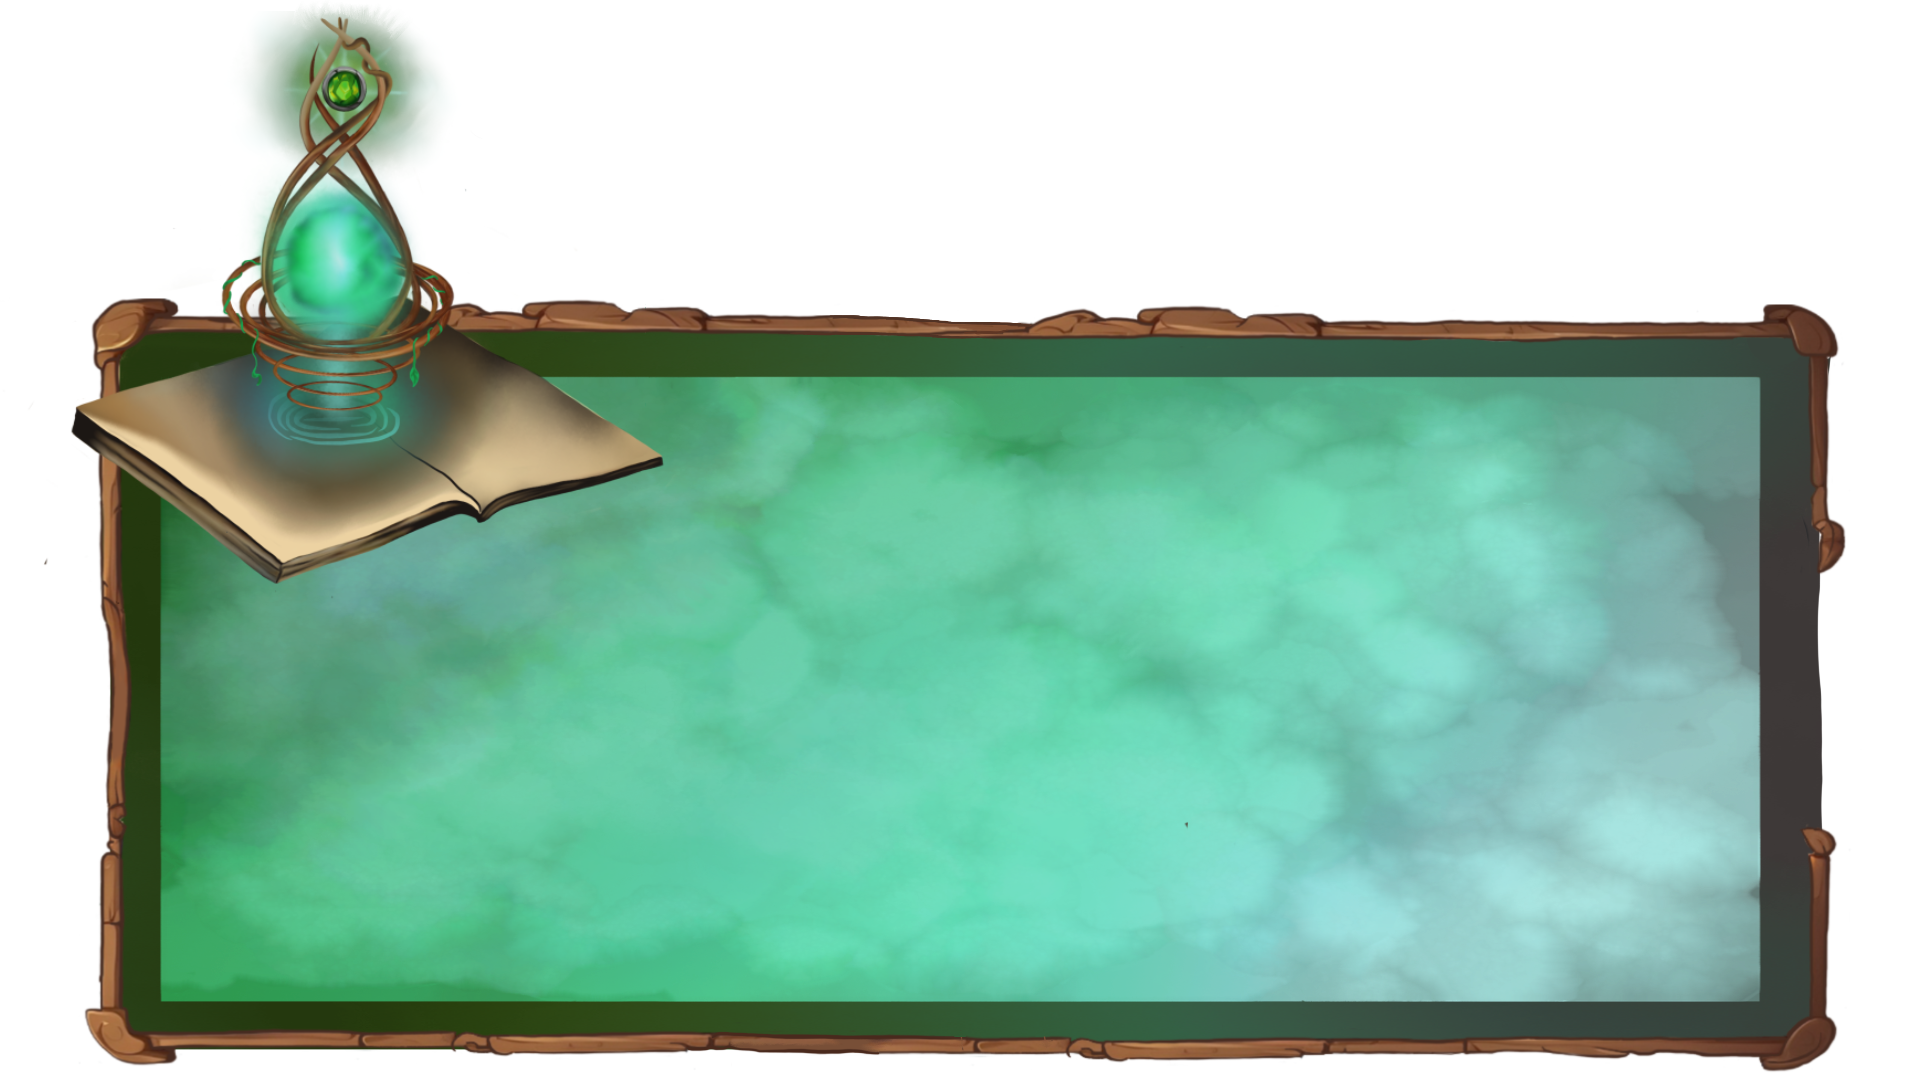
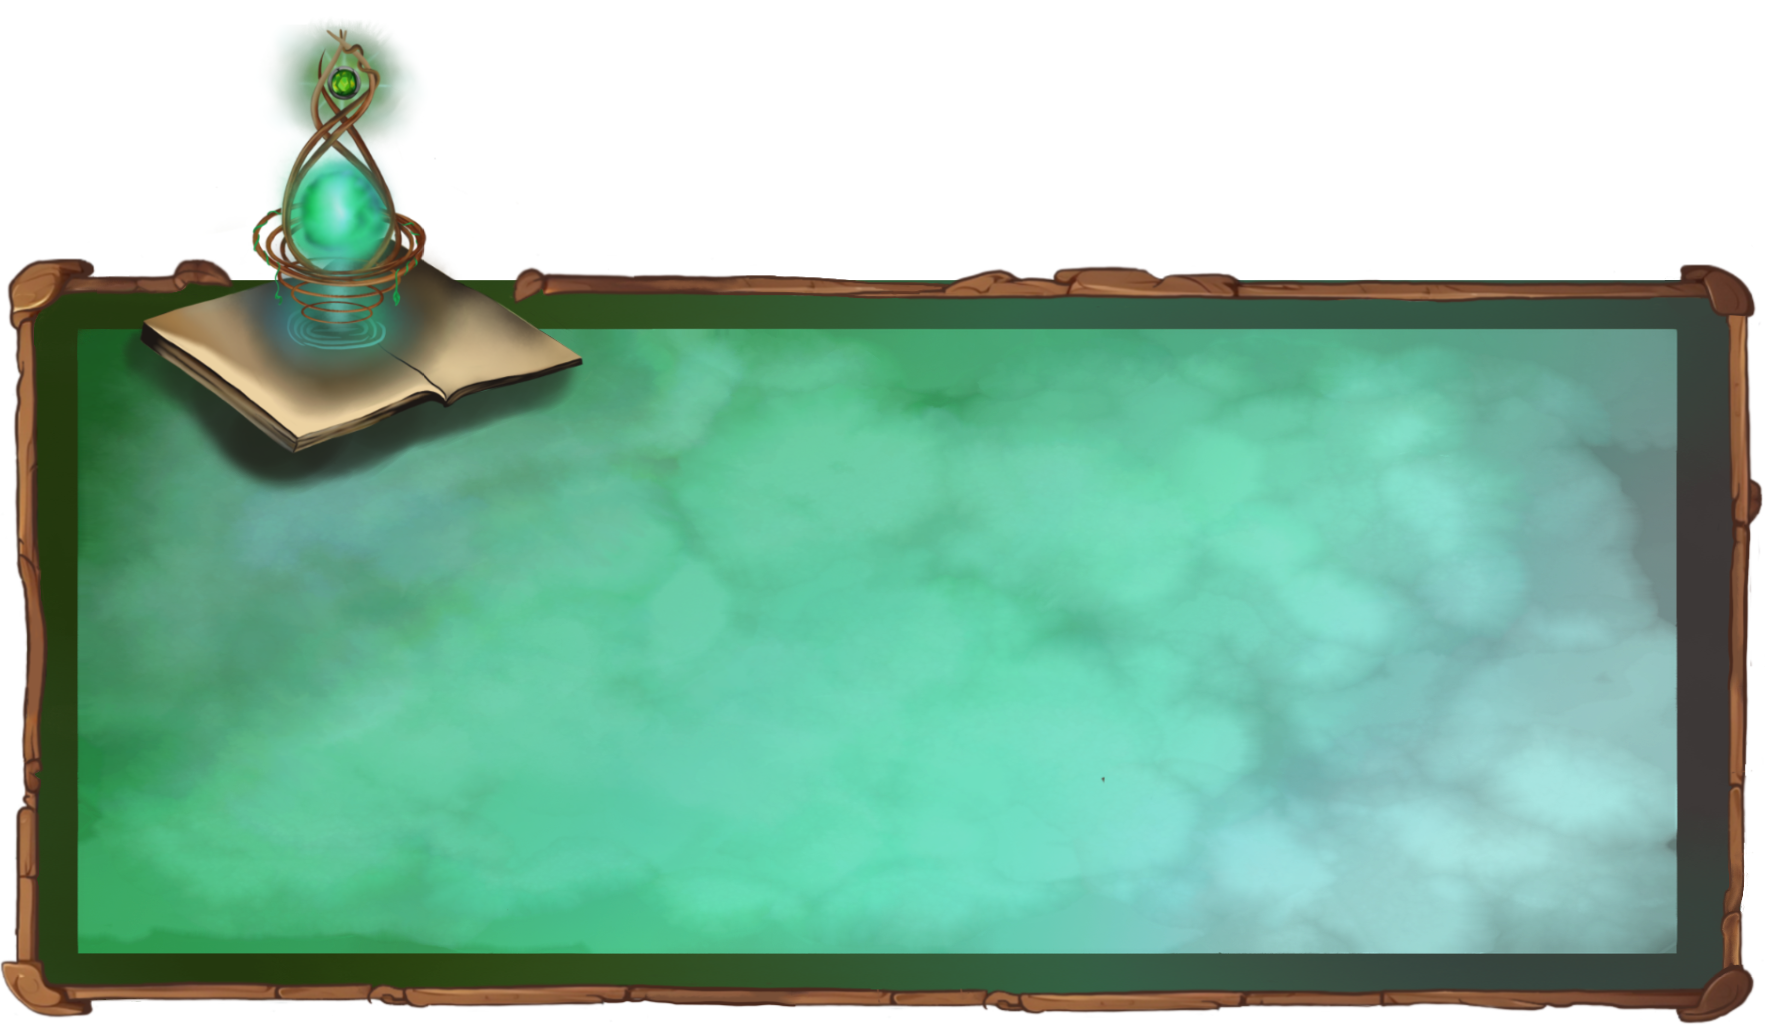
Fix Single Recipe CSS

diff --git a/src/client/SeeRecipes/LevelOneRecipes.jsx b/src/client/SeeRecipes/LevelOneRecipes.jsx
@@ -4,7 +4,7 @@ import { Link } from "react-router-dom"
 
 import { useGetLevelOneRecipesQuery } from "../../redux/api"
 
-import RecipeCircle from "./RecipeCircle.png"
+import RecipeBorder from "./RecipeBorder.png"
 
 const LevelOneRecipes = () => {
     const { data, error, isLoading } = useGetLevelOneRecipesQuery();
@@ -16,7 +16,7 @@ const LevelOneRecipes = () => {
     }
     return (
         <div>
-            <Box sx={{ ml: 3, px: "10%", backgroundColor: "transparent" }}>
+            <Box sx={{ px: "7%", backgroundColor: "transparent" }}>
                 <Typography
                     variant="h5"
                     sx={{ mt: 10, textAlign: "center", color: "#362706", fontWeight: "bold" }}>
@@ -24,25 +24,30 @@ const LevelOneRecipes = () => {
                 </Typography>
                 <Stack direction="row" useFlexGap flexWrap="wrap">
                     {data && data.map((recipes) => (
-                        <Tooltip title="Click to see recipe details">
-                            <Box
-                                sx={{ my: 5 }}
-                                style={{
-                                    backgroundImage: `url(${RecipeCircle})`,
-                                    width: "150px",
-                                    height: "150px",
-                                    backgroundSize: "contain",
-                                    backgroundRepeat: "no-repeat",
-                                }}>
-                                <Stack direction="column">
-                                    <Typography sx={{ mt: "30%", mx: "20%", fontWeight: "bold", textAlign: "center", color: "#935900" }}>
-                                        {recipes.name}
-                                    </Typography>
-                                    <Typography sx={{ textAlign: "center" }}>
-                                    </Typography>
-                                </Stack>
-                            </Box>
-                        </Tooltip>
+                        <div key={recipes.id}>
+                            <Tooltip title="Click to see recipe details">
+                                <Link 
+                                style={{ textDecoration: "none" }} 
+                                to={`/recipe/${recipes.id}`}>
+                                    <Box
+                                        sx={{ m: 1, p: 3, pb: 30 }}
+                                        style={{
+                                            backgroundImage: `url(${RecipeBorder})`,
+                                            width: "150px",
+                                            backgroundSize: "contain",
+                                            backgroundRepeat: "no-repeat",
+                                        }}>
+                                        <Stack direction="column">
+                                            <Typography sx={{fontWeight: "bold", textAlign: "center", color: "#362706" }}>
+                                                {recipes.name}
+                                            </Typography>
+                                            <Typography sx={{ textAlign: "center" }}>
+                                            </Typography>
+                                        </Stack>
+                                    </Box>
+                                </Link>
+                            </Tooltip>
+                        </div>
                     ))
                     }
                 </Stack>

diff --git a/src/client/SeeRecipes/RecipesPage.jsx b/src/client/SeeRecipes/RecipesPage.jsx
@@ -1,54 +1,45 @@
 import { useState } from "react";
-import { Box, Button, Grid, Stack, Tooltip, Typography } from "@mui/material";
+import { Box, Stack, Typography } from "@mui/material";
 
-import { Link } from "react-router-dom";
-
-import { useGetUserQuery, useGetAllRecipesQuery } from "../../redux/api";
+import { useGetUserQuery } from "../../redux/api";
 
 import Scroll from "./Scroll.png"
-import RecipeCard from "./RecipeCardBackground.png"
-import RecipeCircle from "./RecipeCircle.png"
-import NoUserRecipeView from "./NoUserRecipeView";
+import SingleRecipeBorder from "./SingleRecipeBorder.png"
 import LevelOneRecipes from "./LevelOneRecipes";
 import LevelTwoRecipes from "./LevelTwoRecipes";
 import LevelThreeRecipes from "./LevelThreeRecipes";
 
 const RecipesPage = () => {
-    const [viewRecipe, setViewRecipe] = useState(null);
     const { data, error, isLoading } = useGetUserQuery();
-    const { data: recipeData, error: recipeError, isLoading: recipeIsLoading } = useGetAllRecipesQuery();
-
-    const handleRecipeClick = (id) => {
-        setSelectedRecipeId(id);
-    };
-
     if (data) {
         console.log(data)
     }
+    if (!data) {
+        console.log("No logged in user")
+    }
     if (error) {
-        console.log(error)
+        console.log(console.log("No user is logged in"))
     }
     return (
         <div>
-
             <Stack direction="row">
                 <Box
-                    sx={{ mx: 5, mt: 7, pt: 2, pb: 50 }}
+                    sx={{ pt: 2, pb: 50 }}
                     style={{
-                        backgroundImage: `url(${RecipeCard})`,
+                        backgroundImage: `url(${SingleRecipeBorder})`,
                         backgroundSize: "cover",
                         width: "100%",
                         backgroundRepeat: "no-repeat",
                     }}>
                     <Typography
                         variant="h2"
-                        sx={{ textAlign: "center", color: "rgba(223, 233, 228, 1)", fontWeight: "bold" }}>
+                        sx={{ mt: 15, textAlign: "center", color: "#445D48", fontWeight: "bold" }}>
                         Recipe Quests:
                     </Typography>
-                    <Box sx={{ pt: "20%", px: 10 }}>
+                    <Box sx={{ pt: "5%", px: 15 }}>
                         <Stack direction="column">
                             <Box
-                                sx={{ pb: 20 }}
+                                sx={{ pb: 25 }}
                                 style={{
                                     width: "100%",
                                     backgroundImage: `url(${Scroll})`,
@@ -79,15 +70,6 @@ const RecipesPage = () => {
                             </Box>
                         </Stack>
                     </Box>
-                    {/* {!data
-                        ? //if no user...
-                        <div>
-                            <NoUserRecipeView />
-                        </div>
-                        : //if user...
-                        <div>
-
-                        </div>} */}
                 </Box>
             </Stack>
         </div >

diff --git a/src/client/SeeRecipes/SingleRecipe.jsx b/src/client/SeeRecipes/SingleRecipe.jsx
@@ -1,41 +1,47 @@
+import Box from "@mui/material/Box";
+import Typography from "@mui/material/Typography";
+
+import { motion } from "framer-motion";
 import { useState } from "react";
 import { useParams } from 'react-router';
 
 import { useGetSingleRecipeQuery } from "../../redux/api"
-import { Typography } from "@mui/material";
 
-const SingleRecipe = () =>{
+import SingleRecipeBorder from "./SingleRecipeBorder.png"
+
+const SingleRecipe = () => {
     const { id } = useParams();
     const { data, error, isLoading } = useGetSingleRecipeQuery(id);
+
+    if (isLoading) {
+        console.log("Loading...")
+        //TO DO
+        return null
+    }
     if (data) {
         console.log(data);
     }
-    if (error){
-        console.log(error);
+    if (error) {
+        return <>{error}</>
     }
-    return(
-        <div>
-            <Typography>
-            <Box
-                    sx={{ mt: 10, ml: 15 }}
+    return (
+        <motion.div
+            initial={{ opacity: 0 }}
+            animate={{ opacity: 1 }}
+            transition={{ duration: 0.5, ease: "easeIn" }}>
+            {data &&
+                <Box
+                    sx={{ pb: 200 }}
                     style={{
-                        backgroundImage: `url(${LevelCard})`,
-                        width: "45%",
-                        backgroundSize: "contain",
+                        backgroundImage: `url(${SingleRecipeBorder})`,
+                        backgroundSize: "cover",
                         backgroundRepeat: "no-repeat",
                     }}>
-                    <div>
-                        <Box>
-                        {data.title}
-                            <Button color="success" sx={{ textTransform: "none", mt: "30%", ml: "10%" }}>
-                                Add Recipe
-                            </Button>
-                        </Box>
-                    </div>
-                </Box>
-            </Typography>
-
-        </div>
+                    <Typography>
+                        {data.name}
+                    </Typography>
+                </Box>}
+        </motion.div>
     )
 }
 export default SingleRecipe

diff --git a/src/client/Dashboards/UserDashboards/WebUserDashboard.jsx b/src/client/Dashboards/UserDashboards/WebUserDashboard.jsx
@@ -66,14 +66,6 @@ const WebUserDashboard = () => {
                                 sx={{ pt: 5, pl: 50, color: "#445D48" }}>
                                 Hello {data.name}
                             </Typography>
-                            {/* <Box sx={{ my: 3, p: 5 }}>
-                                    <Card sx={{ p: 3, backgroundColor: "#65B741" }}>
-                                        {data.level === 1 ? <Typography variant="h4" sx={{ textAlign: "center", color: "white" }}>Level 1</Typography> : <div> </div>}
-                                        {data.level === 2 ? <Typography variant="h4" sx={{ textAlign: "center", color: "white" }}>Level 2</Typography> : <div> </div>}
-                                        {data.level === 3 ? <Typography variant="h4" sx={{ textAlign: "center", color: "white" }}>Level 3</Typography> : <div> </div>}
-                                    </Card>
-                                    <LevelOnePath />
-                                </Box> */}
                         </Box>
                     </Grid>
                 </Grid>

diff --git a/src/client/NavigationBar/NavBar.jsx b/src/client/NavigationBar/NavBar.jsx
@@ -35,10 +35,6 @@ const NavBar = () => {
                             <Link to="/">
                                 <Tooltip title="Retun to Homepage">
                                     LOGO
-                                    {/* <img
-                                        src={logo}
-                                        alt="Logo"
-                                        width="40px" /> */}
                                 </Tooltip>
                             </Link>
                         </Box>

diff --git a/src/client/SeeRecipes/LevelThreeRecipes.jsx b/src/client/SeeRecipes/LevelThreeRecipes.jsx
@@ -25,7 +25,7 @@ const LevelThreeRecipes = () => {
                         <Typography
                             variant="h5"
                             sx={{ mt: 10, textAlign: "center", color: "#362706", fontWeight: "bold" }}>
-                            Level three quests are Locked!
+                            Level three quests are locked!
                         </Typography>
                         <Typography
                             variant="h6"

diff --git a/src/client/SeeRecipes/LevelTwoRecipes.jsx b/src/client/SeeRecipes/LevelTwoRecipes.jsx
@@ -25,7 +25,7 @@ const LevelTwoRecipes = () => {
                         <Typography
                             variant="h5"
                             sx={{ mt: 10, textAlign: "center", color: "#362706", fontWeight: "bold" }}>
-                            Level two quests are Locked!
+                            Level two quests are locked!
                         </Typography>
                         <Typography
                             variant="h6"

diff --git a/src/redux/api.js b/src/redux/api.js
@@ -59,7 +59,7 @@ const api = createApi({
           //GET SINGLE RECIPE
           getSingleRecipe: builder.query({
             query: (id) => ({
-                url: `/api//recipe/${id}`,
+                url: `/api/recipe/${id}`,
                 method: 'GET',
             }),
             providesTags: ["Recipes"]

diff --git a/src/client/App.jsx b/src/client/App.jsx
@@ -22,7 +22,7 @@ function App() {
   return (
     <div>
       <BrowserRouter>
-        {!token ? <NavBar /> : <UserNavBar/>}
+        {/* {!token ? <NavBar /> : <UserNavBar/>} */}
         <Routes>
           <Route path="/" element={<HomePage />} />
           <Route path="/login" element={<LoginForm />} />

diff --git a/src/client/index.css b/src/client/index.css
@@ -1,7 +1,7 @@
 body {
-    background: rgb(54, 83, 77);
     background: linear-gradient( rgba(223, 233, 228, 1), rgba(192, 208, 200, 1), rgba(80, 125, 106, 1), rgba(54, 83, 77, 1));
     background-size: cover;
     padding: 0;
     margin: 0;
+    background-attachment: fixed;
 }
